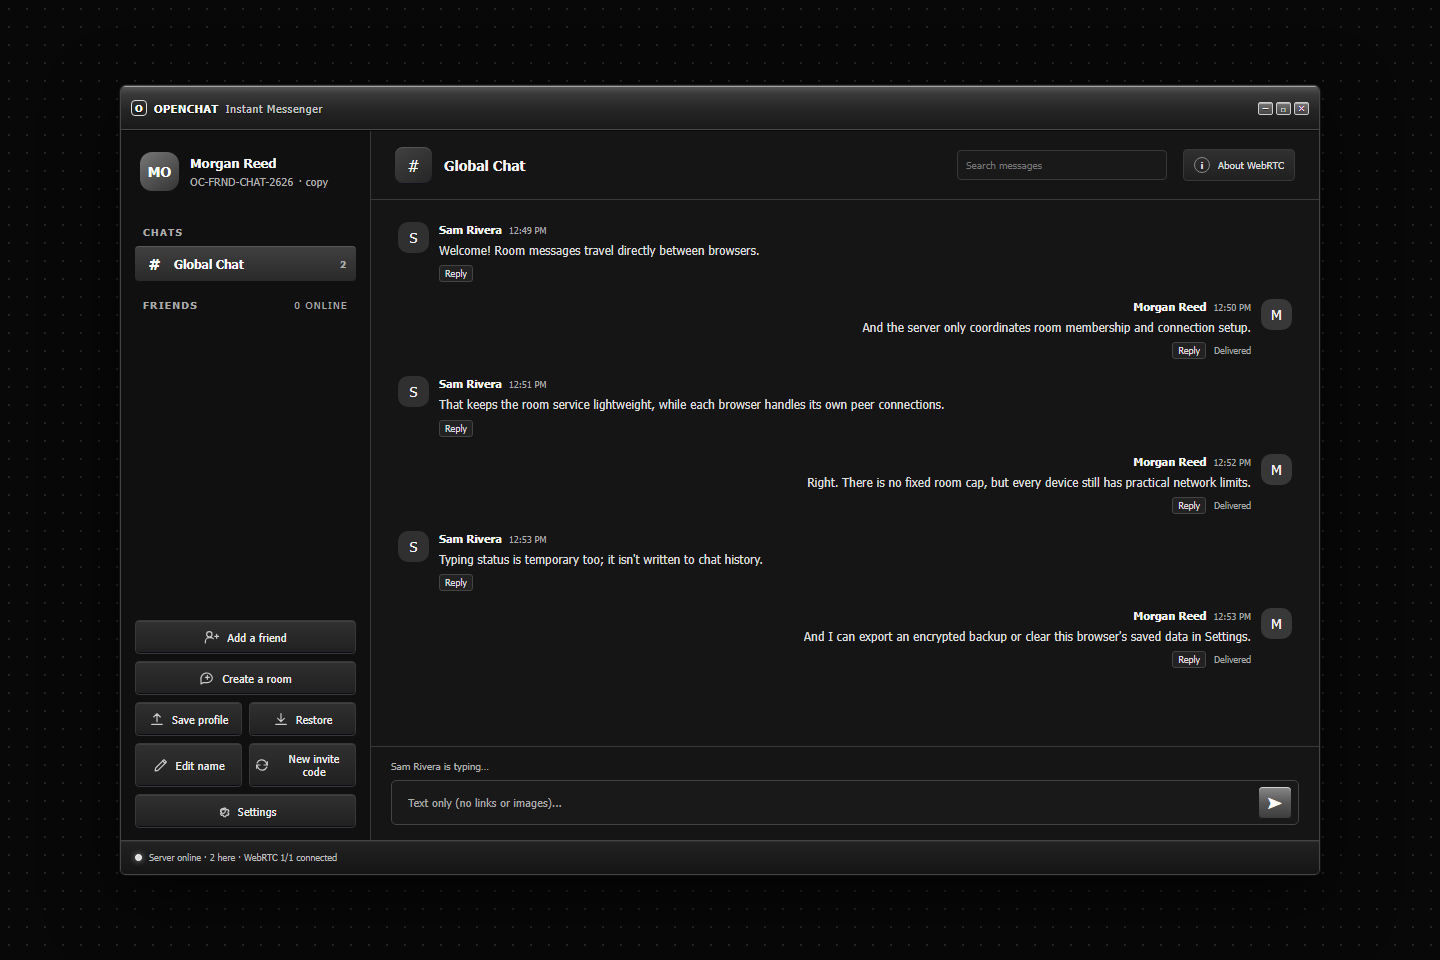
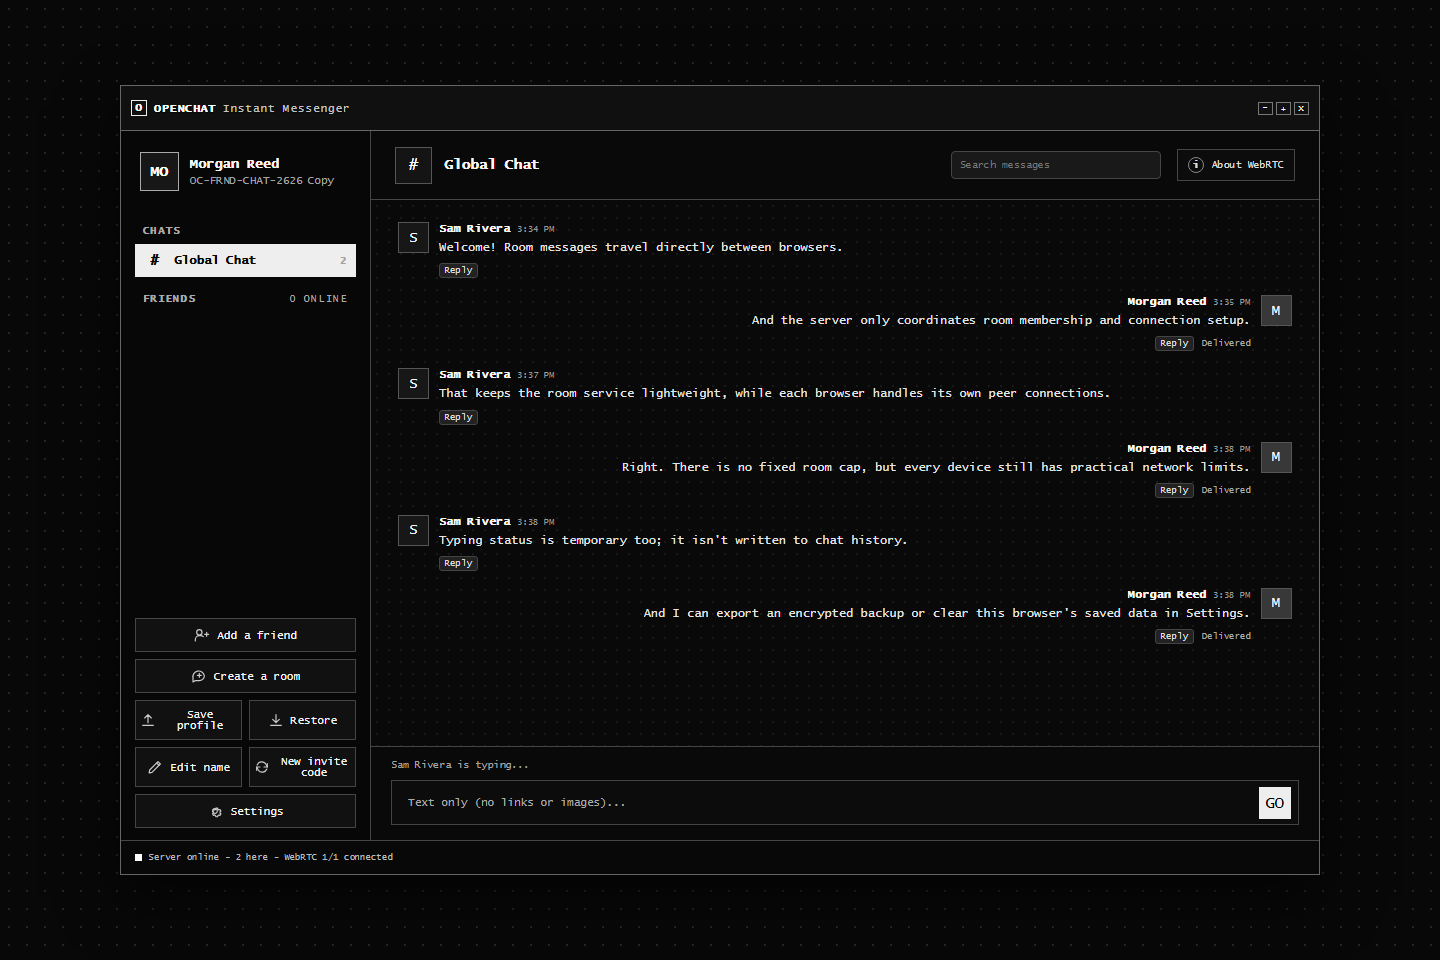
Refresh landing screenshots for current interface

diff --git a/landing.html b/landing.html
@@ -70,6 +70,11 @@
     .kicker { margin: 0 0 11px; color: var(--lime); font-size: 10px; font-weight: 750; letter-spacing: .14em; text-transform: uppercase; }
     h2 { margin: 0; font-size: clamp(28px, 4vw, 43px); letter-spacing: -.045em; line-height: 1.12; }
     .section-intro { max-width: 590px; margin: 13px 0 0; color: var(--muted); font-size: 14px; line-height: 1.75; }
+    .mobile-showcase { display: grid; grid-template-columns: 1fr minmax(200px, 290px); align-items: center; gap: 48px; padding: 30px; border: 1px solid var(--line); border-radius: 16px; background: linear-gradient(135deg, #171717, #0d0d0d); }
+    .mobile-showcase .section-head { margin: 0; }
+    .mobile-shot { width: min(100%, 280px); margin: 0 auto; padding: 7px; border: 1px solid #ffffff22; border-radius: 16px; background: #080808; box-shadow: 0 24px 60px #0009; }
+    .mobile-shot img { display: block; width: 100%; height: auto; border-radius: 9px; }
+    .mobile-shot figcaption { padding: 10px 5px 3px; color: var(--muted); font-size: 10px; line-height: 1.5; }
     .diagram-panel { overflow: hidden; border: 1px solid var(--line); border-radius: 14px; background: #090909; }
     .diagram-panel img { display: block; width: 100%; height: auto; }
     .diagram-caption { display: flex; justify-content: space-between; gap: 18px; padding: 14px 18px; border-top: 1px solid var(--line); color: var(--muted); font-size: 11px; line-height: 1.6; }
@@ -121,6 +126,7 @@
       .feature-grid { grid-template-columns: repeat(2, 1fr); }
       .network { grid-template-columns: 1fr; gap: 19px; }
       .mesh-panel { grid-template-columns: 1fr; }
+      .mobile-showcase { gap: 25px; padding: 24px; }
     }
     @media (max-width: 560px) {
       .wrap { width: min(100% - 32px, 1120px); }
@@ -138,6 +144,8 @@
       .section { padding: 66px 0; }
       .feature-grid { grid-template-columns: 1fr; }
       .feature { min-height: 0; }
+      .mobile-showcase { grid-template-columns: 1fr; gap: 24px; padding: 21px; }
+      .mobile-shot { width: min(100%, 260px); }
       .setup-grid { grid-template-columns: 1fr; }
       .setup-step { min-height: 0; }
       .mesh-panel { padding: 17px; }
@@ -148,6 +156,12 @@
       .privacy-band { grid-template-columns: 1fr; padding: 24px 19px; }
       .privacy-band .button { justify-self: start; }
       .footer { align-items: flex-start; flex-direction: column; }
+    }
+    @media (max-width: 360px) {
+      .topnav a:not(.button) { display: none; }
+      .topnav { gap: 0; }
+      .topnav .button { padding: 0 8px; }
+      .brand { gap: 7px; font-size: 13px; }
     }
     @media (prefers-reduced-motion: reduce) {
       html { scroll-behavior: auto; }
@@ -183,7 +197,7 @@
       </div>
       <div class="visual" aria-label="Illustrated preview of the OpenChat messenger">
         <div class="visual-glow" aria-hidden="true"></div>
-        <div class="preview-frame"><img src="assets/openchat-preview.svg" alt="OpenChat desktop-style chat interface preview"></div>
+        <div class="preview-frame"><img src="assets/openchat-desktop-v2.png" alt="Current OpenChat desktop interface with a room conversation, connection status, and message composer"></div>
         <div class="floating-tag"><span class="tag-icon" aria-hidden="true">P2P</span><span><strong>Peer-to-peer rooms</strong><small>WebRTC data channels</small></span></div>
       </div>
     </section>
@@ -194,6 +208,20 @@
       <span><b>No account</b> or phone number</span>
       <span><b>Encrypted</b> portable profile backups</span>
     </div>
+
+    <section class="wrap section" aria-labelledby="mobileShowcaseTitle">
+      <div class="mobile-showcase">
+        <div class="section-head">
+          <p class="kicker">The current interface</p>
+          <h2 id="mobileShowcaseTitle">One chat, from desktop to phone.</h2>
+          <p class="section-intro">These captures come from the running app and show the current monochrome interface at desktop and mobile sizes.</p>
+        </div>
+        <figure class="mobile-shot">
+          <img src="assets/openchat-mobile-v2.png" alt="Current OpenChat mobile interface with a room conversation, compact sidebar, and message composer">
+          <figcaption>OpenChat at a narrow mobile viewport.</figcaption>
+        </figure>
+      </div>
+    </section>
 
     <section class="wrap section" id="features" aria-labelledby="featuresTitle">
       <div class="section-head">

diff --git a/server.js b/server.js
@@ -16,6 +16,8 @@ const roomNames = new Map([["global chat", "Global Chat"]]);
 const staticAssets = new Map([
   ["/assets/favicon.svg", { file: "assets/favicon.svg", contentType: "image/svg+xml" }],
   ["/assets/openchat-preview.svg", { file: "assets/openchat-preview.svg", contentType: "image/svg+xml" }],
+  ["/assets/openchat-desktop-v2.png", { file: "assets/openchat-desktop-v2.png", contentType: "image/png" }],
+  ["/assets/openchat-mobile-v2.png", { file: "assets/openchat-mobile-v2.png", contentType: "image/png" }],
   ["/assets/message-path.svg", { file: "assets/message-path.svg", contentType: "image/svg+xml" }],
   ["/assets/room-mesh.svg", { file: "assets/room-mesh.svg", contentType: "image/svg+xml" }]
 ]);

diff --git a/tests/frontend.test.js b/tests/frontend.test.js
@@ -25,6 +25,8 @@ test("inline app script parses and all static DOM references exist", () => {
   assert.doesNotMatch(landingHtml, /[^\x00-\x7F]/, "the landing page should use plain text, not decorative Unicode symbols");
   assert.match(landingHtml, /Browsers carry the conversation/);
   assert.match(landingHtml, /Bring up a room in three steps/);
+  assert.match(landingHtml, /assets\/openchat-desktop-v2\.png/);
+  assert.match(landingHtml, /assets\/openchat-mobile-v2\.png/);
   assert.match(landingHtml, /assets\/message-path\.svg/);
   assert.match(landingHtml, /assets\/room-mesh\.svg/);
   assert.equal([...match[1].matchAll(/new RTCPeerConnection\(\{ iceServers \}\)/g)].length, 2);

diff --git a/tests/server.test.js b/tests/server.test.js
@@ -134,6 +134,13 @@ test("health endpoint and app assets are served", async () => {
     assert.match(response.headers.get("content-type"), /^image\/svg\+xml/);
     assert.match(await response.text(), /<svg/);
   }
+
+  for (const asset of ["openchat-desktop-v2.png", "openchat-mobile-v2.png"]) {
+    const response = await fetch(`http://127.0.0.1:${port}/assets/${asset}`);
+    assert.equal(response.status, 200);
+    assert.match(response.headers.get("content-type"), /^image\/png/);
+    assert.ok((await response.arrayBuffer()).byteLength > 0);
+  }
 });
 
 test("new server starts with Global Chat and relays WebRTC signaling, not room messages", async () => {

diff --git a/scripts/capture-preview.js b/scripts/capture-preview.js
@@ -54,7 +54,7 @@ async function openDemoPage(browser, port, name, code, messages = []) {
   await page.addInitScript((state) => {
     localStorage.setItem("openchat.device.v1", JSON.stringify(state));
   }, demoState(name, code, messages));
-  await page.goto(`http://127.0.0.1:${port}/`);
+  await page.goto(`http://127.0.0.1:${port}/app`);
   return { context, page };
 }
 
